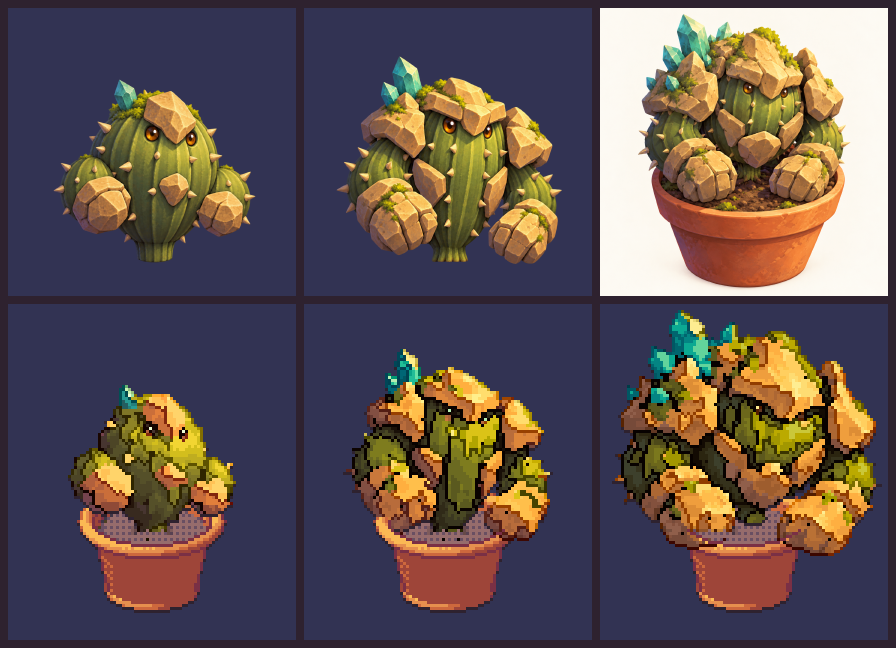
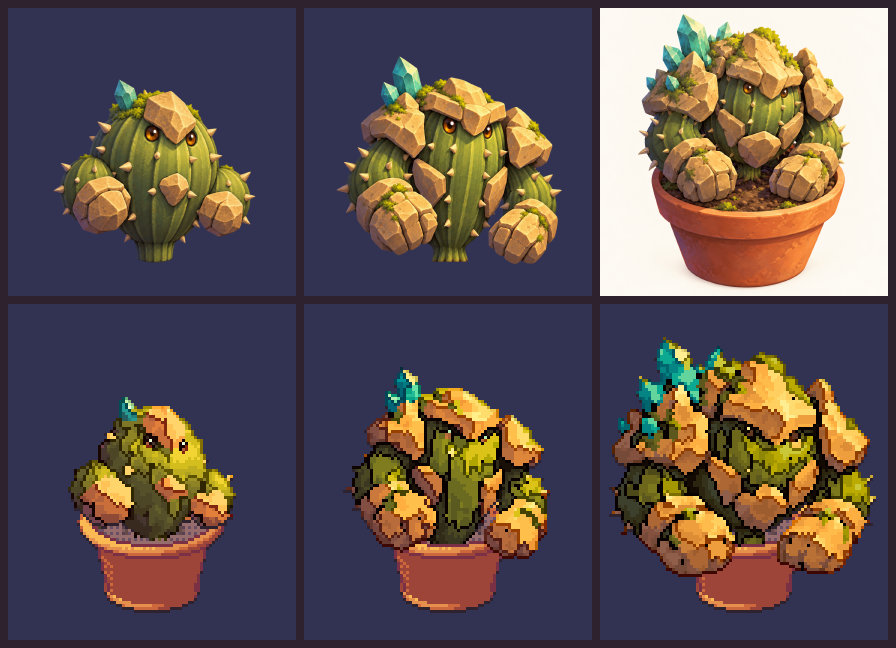
바위 선인장 주먹을 화분 앞으로(화분 앞 부위 표 FRONT · 몸 더 앉힘) · 의자 누끼 · 프로필 자르기 · 확대와 아래 창 같이 · 소리 리미터
사용자 '바위 선인장의 손은 어색하게 화분에 붙어 있어 — 신체별로 화분 밖에 손을 꺼내 놓는 느낌으로' · '나무 의자 픽셀 단위 하얀 게 있어' · '불선인장 프로필 사진이 너무 아래' · '아래 창 올라오는 게 느려서 검은 게 보여 — 동시에' · '여전히 종종 음악이 지지직'
- convert.mjs FRONT(출력 키 → 원화 다각형) + potblend frontMask: 그 부위는 늘 앞판 앞 · 흙으로 안 덮음, 가이아록 세 단계 SINK 4/2/2 → 8/4/3
- 단계 검토판도 묶음과 같게(단계마다 앞 부위 · 앉힘), SINK_TEST 가 흙 덮기 · json까지, 촬영 opt.plants
- loft.js stoolMask · sprites.js drawPortrait · home/plant 확대 0.38에서 넘김 · sound.js 리미터 + balanced
- icons.js lockS 중복 정의 정리, 검토 그림(out/review) · 새 아홉 변환판

Changed region(s): [[0.6875, 0.463, 1.0, 0.8951], [0.375, 0.5247, 0.625, 0.8642], [0.0625, 0.5864, 0.2812, 0.8333]]

diff --git a/v2/src/art/loft.js b/v2/src/art/loft.js
@@ -324,16 +324,36 @@ export function loftPlantCy(key) {
 const NDARK = [3, 4, 10], NAMB = 0.05, STOOL_LIT = 0.85;
 const legOn = (X, Y, x0, y0, x1, y1, hw) => Y >= y0 && Y <= y1 && Math.abs(X - (x0 + ((x1 - x0) * (Y - y0)) / (y1 - y0))) <= hw;
 // 의자: 앉는 판 윗면 타원 + 두께 띠 + 다리 셋(tools/pixel/big/loft_light.mjs 와 같은 잰 값)
-const inStool = (x, y) => { const X = x + 0.5, Y = y + 0.5; return ((X - 134.5) / 32.5) ** 2 + ((Y - 355.5) / 6.5) ** 2 <= 1 || ((X - 134.5) / 32) ** 2 + ((Y - 361.5) / 7.5) ** 2 <= 1 || legOn(X, Y, 116.5, 362, 108, 406, 4.6) || legOn(X, Y, 136, 362, 136, 395, 4.2) || legOn(X, Y, 154.5, 362, 161, 406, 4.6); };
+const inSeat = (X, Y) => ((X - 134.5) / 32.5) ** 2 + ((Y - 355.5) / 6.5) ** 2 <= 1 || ((X - 134.5) / 32) ** 2 + ((Y - 361.5) / 7.5) ** 2 <= 1;
+const inLegs = (X, Y) => legOn(X, Y, 116.5, 362, 108, 406, 4.6) || legOn(X, Y, 136, 362, 136, 395, 4.2) || legOn(X, Y, 154.5, 362, 161, 406, 4.6);
+const inStool = (x, y) => { const X = x + 0.5, Y = y + 0.5; return inSeat(X, Y) || inLegs(X, Y); };   // 모양만(다른 쓰임 — 아래 칸 나누기)
+// 의자 칸 표: 모양 안에서도 나무 색만 — 판 = 어두운 나무 · 진한 주황 판(푸른빛 칸 뺌), 다리 = 어두운 나무 · 진한 주황 결(밝고 옅은 칸 = 바닥과 섞인 경계 → 뺌),
+//  그다음 바깥과 맞닿은 밝고 옅은 칸 한 겹 벗김(2026-10-17 사용자 "시작할 때 의자 부분 누끼가 다 안 따져 있어" → "여전히 픽셀 단위 하얀 게 있어")
+function stoolMask(o, W, H) {
+  const m = new Uint8Array(W * H), lumAt = k => (o[k] * 0.3 + o[k + 1] * 0.59 + o[k + 2] * 0.11) / 255, satAt = k => { const mx = Math.max(o[k], o[k + 1], o[k + 2]), mn = Math.min(o[k], o[k + 1], o[k + 2]); return (mx - mn) / Math.max(1, mx); };
+  for (let y = 340; y < Math.min(H, 415); y++) for (let x = 95; x < Math.min(W, 175); x++) {
+    if (inGlass(x, y)) continue;
+    const i = y * W + x, k = i * 4, X = x + 0.5, Y = y + 0.5, l = lumAt(k), sat = satAt(k), r = o[k], g = o[k + 1], b = o[k + 2];
+    if (inSeat(X, Y)) m[i] = (l < 0.5 && r >= b && b < g + 6) || (l < 0.72 && sat >= 0.35 && r > g && g > b) ? 1 : 0;
+    else if (inLegs(X, Y)) m[i] = (l < 0.42 && r >= b) || (sat >= 0.42 && r > g && g > b && l < 0.72) ? 1 : 0;
+  }
+  const peel = [];
+  for (let y = 340; y < Math.min(H, 415); y++) for (let x = 95; x < Math.min(W, 175); x++) {
+    const i = y * W + x, k = i * 4; if (!m[i]) continue;
+    const edge = !m[i - 1] || !m[i + 1] || !m[i - W] || !m[i + W];
+    if (edge && lumAt(k) > 0.36 && satAt(k) < 0.35) peel.push(i);
+  }
+  for (const i of peel) m[i] = 0;
+  return m;
+}
 function nightLayers() {
   if (S.night) return S.night;
   const { o, off, kp, W, H } = lampLayers();
   const mk = () => { const cv = document.createElement('canvas'); cv.width = W; cv.height = H; const c = cv.getContext('2d'); return { cv, c, im: c.createImageData(W, H) }; };
-  const A = mk(), B = mk(), Cs = mk(), u32 = new Uint32Array(W * H), a = A.im.data, b = B.im.data, s = Cs.im.data;
+  const A = mk(), B = mk(), Cs = mk(), u32 = new Uint32Array(W * H), a = A.im.data, b = B.im.data, s = Cs.im.data, SM = stoolMask(o, W, H);
   for (let i = 0; i < W * H; i++) {
     const k = i * 4, x = i % W, y = (i - x) / W, glass = inGlass(x, y), lum = (o[k] * 0.3 + o[k + 1] * 0.59 + o[k + 2] * 0.11) / 255;
-    // 의자 = 모양 안에서도 나무 색만(어두운 갈색 · 따뜻한 주황 판) — 모양이 다리보다 넓어 옆 벽(푸른 회색) · 바닥 그늘 · 경계 칸이 같이 떼어져 밝은 테두리로 보였음(2026-10-17 사용자 "시작할 때 의자 부분 누끼가 다 안 따져 있어")
-    const st = !glass && inStool(x, y) && (lum < 0.5 || (lum < 0.72 && o[k] - o[k + 2] > 55)) && o[k] >= o[k + 2], v = [0, 0, 0];
+    const st = !!SM[i], v = [0, 0, 0];   // 의자 = 나무 색 칸 표(stoolMask)
     for (let ch = 0; ch < 3; ch++) {
       const base = glass ? NDARK[ch] : NDARK[ch] + off[k + ch] * NAMB, li = glass ? 0 : st ? o[k + ch] * STOOL_LIT : Math.max(0, o[k + ch] - off[k + ch]) * kp[i];
       a[k + ch] = Math.round(base); b[k + ch] = Math.round(li); v[ch] = Math.min(255, a[k + ch] + b[k + ch]);

diff --git a/v2/src/scenes/plant.js b/v2/src/scenes/plant.js
@@ -11,7 +11,7 @@ import { basicsOf } from '../battle/model.js';
 import { cardSkillOf } from '../game/fight.js';
 import { fxChip, BUFF_LOOK } from '../art/statusLook.js';
 import { LOFT_STOOL, loftView, loftPlant, loftZoom, loftPlantCy } from '../art/loft.js';
-import { FOCUS, focusOf, plantSheetY } from './home.js';
+import { FOCUS, focusOf, plantSheetY, homeDy, ZOOM_MS } from './home.js';
 import { SPECIES, SKILLS, JONG, STAT_KEYS, STAT_NAME, UP_GAIN, IV_KEYS, IV_MAX, TIER_NAME, upCost, resetCost, canGraft, starsOf, FORMS } from '../game/catalog.js';
 import { CARDS, CARD_SLOTS, NORMAL_LOOK, cardFits, cardFace, isSkillCard } from '../game/cards.js';
 import { plantStats, sellPrice, BASIC_IDS } from '../game/logic.js';
@@ -68,7 +68,8 @@ export const plant = {
   enter(p) {
     this.sel = p.sel == null ? null : p.sel === 'j' ? 'j' : 'b' + p.sel;   // ?sel = 검토 촬영(고른 칸)
     this.tab = p.tab || 'skill'; this.sub = p.sub || null; this.ivStat = null; this.scrollY = 0; this.maxY = 0;
-    this.t0 = p.focus ? null : -1e9; this.out = null; this.gone = false;   // 홈 암실 연출에서 왔을 때만 판이 올라옴
+    this.t0 = p.focus || p.zoomAt != null ? null : -1e9; this.out = null; this.gone = false;   // 홈 암실 연출에서 왔을 때만 판이 올라옴
+    this.zoomIn = !!p.zoom || p.zoomAt != null; this.zoomAt = p.zoomAt != null ? +p.zoomAt : 0;   // ?zoomAt=ms = 다가감 그 순간 촬영   // 홈이 다가가기 시작한 순간 넘어옴 = 남은 다가감을 여기서(판 올라옴과 같이)
     this.forceAct = p.act != null ? +p.act : null;   // 검토 촬영: 그 번째 식물로
   },
   onDrag(dy, dx, ev) {
@@ -94,10 +95,11 @@ export const plant = {
     if (!p) { app.go('home'); return; }
     const key = bigKey(p.key, stageKey(p)), [mx, my] = LOFT_STOOL, pc = loftPlantCy(key), F = focusOf(app), SY = plantSheetY(app);
     this.app = app;
-    if (this.t0 == null) this.t0 = t;
-    loftView(app, { dark: 1, z: loftZoom(app, F.want), px: mx, py: pc, sx: F.sx, sy: F.sy, plant: () => loftPlant(app, key, p.pot, mx, my) });
-    // 들어옴 = 위 글자가 나타나고 아래 판이 올라옴, 나감 = 거꾸로 → 홈(불 켜짐)
-    let k = ease(Math.min(1, (t - this.t0) / IN_MS));
+    if (this.t0 == null) this.t0 = t - (this.zoomAt || 0);
+    const zk = this.zoomIn ? ease(Math.min(1, (t - this.t0) / ZOOM_MS)) : 1, Zw = loftZoom(app, F.want), sy0 = pc + homeDy(app);   // 다가감(홈 camera 와 같은 길)
+    loftView(app, { dark: 1, z: 1 + (Zw - 1) * zk, px: mx, py: pc, sx: mx + (F.sx - mx) * zk, sy: sy0 + (F.sy - sy0) * zk, plant: () => loftPlant(app, key, p.pot, mx, my) });
+    // 들어옴 = 위 글자가 나타나고 아래 판이 올라옴(다가가며 들어오면 다가감과 같이 — 판이 조금 앞서 아래 검은 칸을 가림), 나감 = 거꾸로 → 홈(불 켜짐)
+    let k = ease(Math.min(1, (t - this.t0) / (this.zoomIn ? ZOOM_MS * 0.8 : IN_MS)));
     if (this.out != null) { const o = Math.min(1, (t - this.out) / OUT_MS); k = Math.min(k, 1 - ease(o)); if (o >= 1 && !this.gone) { this.gone = true; app.go('home', { from: 'plant' }, 'cut'); } }
     const live = k >= 1 && this.out == null && !app.popup && !app.confirm;
     g.alpha(k, () => { this.top(app, p, live); this.growStrip(app, p, live, SY - 30); });

diff --git a/v2/src/core/sound.js b/v2/src/core/sound.js
@@ -18,8 +18,12 @@ function makePW(ac, into) { for (const [k, duty] of [['pulse12', 0.125], ['pulse
 function init() {
   if (ctx) return ctx;
   const AC = globalThis.AudioContext || globalThis.webkitAudioContext; if (!AC) return null;
-  ctx = new AC();
-  master = ctx.createGain(); master.gain.value = 1; master.connect(ctx.destination);
+  // 소리 처리 여유 = 'balanced'(휴대폰에서 화면 계산이 몰릴 때 소리가 끊기는 일을 줄임 — 화면 동기는 음악 시계가 출력 지연을 빼서 그대로, 2026-10-17 사용자 "여전히 종종 음악이 지지직")
+  try { ctx = new AC({ latencyHint: 'balanced' }); } catch { ctx = new AC(); }
+  master = ctx.createGain(); master.gain.value = 1;
+  // 넘침 막기(리미터): 음악 · 효과음이 겹쳐 1을 넘으면 찢어지는 소리 → 봉우리만 눌러 줌
+  const lim = ctx.createDynamicsCompressor(); lim.threshold.value = -6; lim.knee.value = 6; lim.ratio.value = 12; lim.attack.value = 0.003; lim.release.value = 0.15;
+  master.connect(lim); lim.connect(ctx.destination);
   sfxBus = ctx.createGain(); sfxBus.gain.value = SOUND.sfx ? SOUND.sfxVol : 0; sfxBus.connect(master);
   musicBus = ctx.createGain(); musicBus.gain.value = SOUND.music ? SOUND.musicVol : 0; musicBus.connect(master);
   noiseBuf = makeNoise(ctx); makePW(ctx, PW);

diff --git a/v2/src/art/sprites.js b/v2/src/art/sprites.js
@@ -96,7 +96,12 @@ export function drawPortrait(g, key, x, y, s, flip = false, src = null) {
   const P = BIG[key]; if (!P) return false;
   const m = P.meta, hx = Math.round(m.head[0]), hy = Math.round(m.head[1]);
   if (src == null) src = s * 2 <= Math.min(m.w, 88) ? s * 2 : s;
-  const sx = Math.max(0, Math.min(m.w - src, hx - Math.floor(src / 2))), sy = Math.max(0, Math.min(m.h - src, hy - Math.floor(src / 2) + 3));
+  let sy = Math.max(0, Math.min(m.h - src, hy - Math.floor(src / 2) + 3));
+  // 얼굴이 몸 아래쪽인 종(엠버캑터 — 불꽃 둔덕 가운데 눈): 얼굴을 가운데 두면 칸 아래가 식물 밑 빈칸으로 차고 위 불꽃이 잘림 → 빈칸이 8칸 넘으면 그만큼 칸을 올림(얼굴은 칸 위에서 68% 안쪽)
+  //  (2026-10-17 사용자 "불 선인장 프로필 사진이 너무 아래에 찍혀 있어")
+  const box = bigBox(key), empty = box ? sy + src - (box[1] + 1) : 0;
+  if (empty > 8) sy = Math.max(0, Math.max(hy - Math.round(src * 0.68), sy - (empty - 4)));
+  const sx = Math.max(0, Math.min(m.w - src, hx - Math.floor(src / 2)));
   part(g, P.sheet, sx, sy, src, src, x, y, flip, s, s);
   part(g, P.sheet, sx, sy + m.rows * m.h, src, src, x, y, flip, s, s);
   return true;

diff --git a/v2/src/main.js b/v2/src/main.js
@@ -135,6 +135,7 @@ window.__shot = (name, params = {}, opt = {}) => {
   app.W = F.w; app.H = F.h; app.t = opt.t ?? 1000; app.state = mockState(); app.pxScale = k;
   app.popup = opt.popup || null; app.confirm = null; app.sheet = opt.sheet || null; app.chest = null; app.guide = null; app.guideWait = null; app.noGuide = true;
   setUi(opt.ui || UI_DEFAULT); holoFx.on = !!opt.holoFx;   // 정지 촬영엔 창 띠리릭 끔(opt.holoFx 로 켬)
+  if (opt.plants) opt.plants.forEach((o, i) => o && app.state.plants[i] && Object.assign(app.state.plants[i], o));   // 식물 바꿔 찍기(검토 — [{ key, stage }, …] = 앞에서부터)
   if (opt.level) app.state.pending.push({ kind: 'level', level: opt.level, box: { credits: 120 + 60 * opt.level, water: 3 + (opt.level >> 1), fert: 1 + Math.floor(opt.level / 3), gems: opt.level % 3 ? 0 : 10 }, slots: 0 });
   router.set(name, params);
   input.begin(); input.pressedId = opt.pressed || null;

diff --git a/v2/src/art/icons.js b/v2/src/art/icons.js
@@ -400,15 +400,6 @@ export const ICON_SRC = {
     '.olo...',
     '.oo....',
   ],
-  lockS: [   // 탭 아이콘 귀퉁이에 붙는 작은 자물쇠(7×7 — 2026-10-17 함선 로켓을 가리지 않게)
-    '..ooo..',
-    '.o...o.',
-    '.o...o.',
-    'ooooooo',
-    'ooo.ooo',
-    'ooo.ooo',
-    'ooooooo',
-  ],
   lock: [
     '...ooooo...',
     '..oo...oo..',

diff --git a/docs/CHANGELOG.md b/docs/CHANGELOG.md
@@ -2,6 +2,15 @@
 
 > CLAUDE.md에서 분리한 전체 개발 로그. 최신 작업이 맨 위. 과거 맥락이 필요할 때만 읽으세요.
 
+### 2026-10-17 (53) — 바위 선인장 주먹을 화분 앞으로 · 의자 누끼 · 프로필 자르기 · 확대와 아래 창 같이 · 소리 리미터
+- **화분 앞 부위(사용자 "바위 선인장의 손은 어색하게 화분에 붙어 있어 — 신체별로 화분 밖에 손을 꺼내 놓는 느낌으로, 화분과 신체 중 어디를 나오게 할지 구분" · "나중에 크고 멋있는 식물은 다양하게 연출"):** `convert.mjs FRONT`(출력 키 → 원화 다각형) — 그 부위는 늘 화분 앞판 앞 · 흙으로 안 덮음(`potblend.mjs plantLayers/soilCover frontMask`). 가이아록 세 단계 두 주먹 + 몸을 더 앉힘(SINK 성체 4 → 8 · 자람 2 → 4 · 어린 2 → 3) → 주먹이 테 너머로 걸쳐 내려옴. 다른 종도 표에 다각형만 적으면 꼬리 · 날개 끝 등을 앞에 낼 수 있음. 단계 검토판도 묶음과 같게(단계마다 앞 부위 · 앉힘), '화분 밖 아래'에서 앞 부위 칸은 따로 셈, 시험값 `SINK_TEST`가 흙 덮기 · json까지 들음. 촬영 `opt.plants`(식물 바꿔 찍기) + `12_nursery_gaia` · `02_home_gaia` · `05_plant_gaia`.
+- **의자 누끼(사용자 "나무 의자 여전히 누끼가 조금 덜 따졌어 — 픽셀 단위 하얀 게 있어" → "완전 누끼네"):** `loft.js stoolMask` — 채도 기준 나무 색(판 · 다리) + 밝고 탁한 가장자리 칸 벗김.
+- **테두리 점검(사용자 "이러한 걸 식물에도 있나 봐줄래? 혹은 다른 곳이나"):** 식물 묶음 · 배경 소품 등 투명 그림의 테두리 밝은 칸을 훑음 → 식물은 그림 자체의 흰 무늬(반짝 · 가시 끝)뿐, 다른 그림엔 찌꺼기 없음.
+- **프로필 사진(사용자 "불선인장 프로필 사진이 너무 아래에 찍혀 있어"):** `sprites.js drawPortrait` — 얼굴 가운데로 자르되 아래 빈 칸이 8칸 넘으면 위로 당김.
+- **확대 · 아래 창(사용자 "식물 누르면 확대되면서 강화창 뜨는 거 — 아래 창 올라오는 게 느려서 화면 아래의 검은 게 보여. 동시에"):** 홈 확대 38%에서 식물 장면으로 넘기고 남은 확대(약 0.7초)와 아래 창 오름(× 0.8)을 같이(`home.js ZOOM_AT/ZOOM_MS` · `plant.js zoomIn`).
+- **음악 지지직(사용자 "여전히 종종 음악이 지지직"):** 소리 맨 끝 리미터(−6dB · 12:1 — 음이 겹쳐 넘치면 깨지던 것) + 소리 장치 지연 'balanced'(작은 버퍼로 끊기던 기기). 처음 화면 · 홈 곡의 '전등 지지직'은 일부러 넣은 소리라 그대로.
+- 정리: `icons.js lockS` 중복 정의(뒤 것이 쓰이던) 앞 것 지움 — 화면 그대로.
+
 ### 2026-10-17 (52) — 스마트팜 밑동(움푹 · 뒤에 놓인 듯)
 - **사용자 "스마트팜에서 불 선인장 밑동이 움푹 파여 있고, 그래서인지 뒤에 배치된 것 같아":** 화분용 흙에 앉히기(SINK — 엠버캑터 4칸)가 잔디 판에서도 그대로라 밑동이 잘렸고, 그 위를 잔디 덤불(5~7칸)이 덮어 식물이 판 가운데보다 덤불 높이만큼 뒤에서 나오는 듯 보였음 → 묶음 json에 `sink`(앉힌 칸)를 적고(`convert.mjs --export`도 이제 적음) `sprites.js drawBigPlanted`가 그만큼 다시 올림 · 밑동 덤불 = 흙 줄 둘레 2칸 + 풀잎(`nursery.js planted`). 화분 속(전투 · 홈 · 고른 식물)은 그대로.
 

diff --git a/.claude/skills/plant-sprite/SKILL.md b/.claude/skills/plant-sprite/SKILL.md
@@ -51,6 +51,7 @@ node tools/pixel/big/stemcheck.mjs [키…]               # 게임 묶음(어린
 
 ## 6. 게임에 넣기(v2)
 - **흙에 앉히기 · 흙 경계(2026-10-17 사용자 "불꽃 선인장이 중앙이 아닌 좀 뒤쪽" · "식물과 흙의 경계가 너무 일자가 되지 않게"):** 굵은 밑동은 아래 끝이 흙 가운데 줄에 걸치면 뒤에 박힌 듯 보임 → `convert.mjs SINK`(판 칸, 밑동 반폭 × 흙 타원 납작함 × 0.75, 최대 5 — 새 그림 · 단계는 SINK를 비운 묶음에서 `node tools/pixel/big/sinkcalib.mjs <키>`로 재서 적음, 꼬리 · 다리가 테에 걸치면 덜). 흙 덮기(`potblend.mjs soilCover`)는 줄기 기둥에서 밑동 둘레 앞쪽 호를 따라 울퉁불퉁 · 흙 속 칸은 앞판 앞에 안 그림. 손으로 옮기기 = `STEM`(가로) · 돌리기 = `ROT`(도, + = 시계 반대). 검수 = 화분 격자(scratchpad pot_grid 방식 — 성체 · 자람 · 어린).
+- **화분 앞 부위(2026-10-17 사용자 "바위 선인장의 손은 어색하게 화분에 붙어 있어 — 신체별로 화분 밖에 손을 꺼내 놓는 느낌으로, 화분과 신체 중 어디를 나오게 할지 구분" · "나중에 크고 멋있는 식물은 다양하게 연출"):** 손 · 꼬리 · 날개 끝처럼 화분 밖으로 내놓을 부위는 `convert.mjs FRONT[출력 키]`에 원화 좌표 다각형으로 적는다(단계 그림은 그 단계 원화 좌표 — 원화에 50칸 격자를 그려 잼). 그 칸은 늘 앞판 앞(over) · 흙으로 안 덮음. 몸통은 `SINK`를 더 줘(가이아록 4 → 8) 앞 부위가 테 너머로 걸쳐 내려오게. 시험 = `SINK_TEST='{"키":n}' node tools/pixel/big/convert.mjs --stages <키>`(배치 · 흙 덮기 · json 모두 그 값), 검토판 '화분 밖 아래'에서 앞 부위 칸은 따로 셈. 움직임 장에서 경계가 잘리지 않는지 `--anim` 첫 장과 가장 다른 장을 확대 비교.
 - `node tools/pixel/big/convert.mjs --export <키…>` → `assets/v2/plants/<키>.png·.json`(대기 64장 + 깜빡임 4장 × under·over 두 층) + `assets/v2/pots/`. 게임은 `v2/src/art/sprites.js drawBig(g, 키, 화분, 굽x, 굽y, {t, flip, flash})`로 화분 뒤 → under → 화분 앞 → over.
   - 묶은 뒤 깜빡임 장이 실제로 감기는지 잰다(깜빡임 장 = 같은 자세 대기 장과 눈 칸이 달라야 함 — 2026-10-17 전엔 `--export`가 눈 자리를 안 잡아 모든 종이 게임에서 안 감겼고 숨쉬기 머리 자리도 검토 영상과 달랐음).
   - 아주 작은 눈이 불 재질 · 이음매에 걸려 움직임 장마다 반짝임이 빠졌다 생기면(드레이크캑터 금빛 눈) `TUNE[키].eyeHold = true` — 눈 둘레는 쉬는 그림을 얼굴 이동만큼 통째로 옮김. 밝은 무늬(`accent`)는 눈 둘레를 저절로 뺌.
